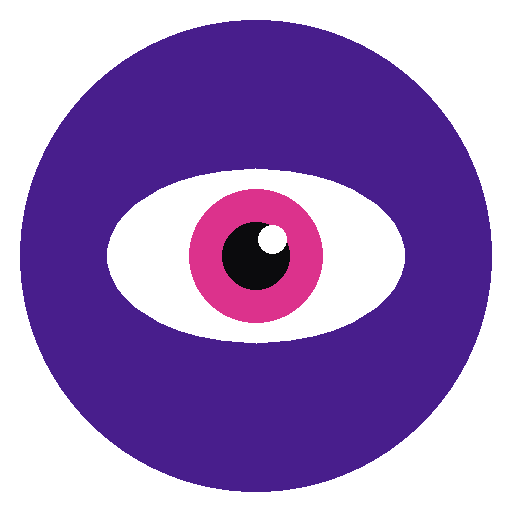
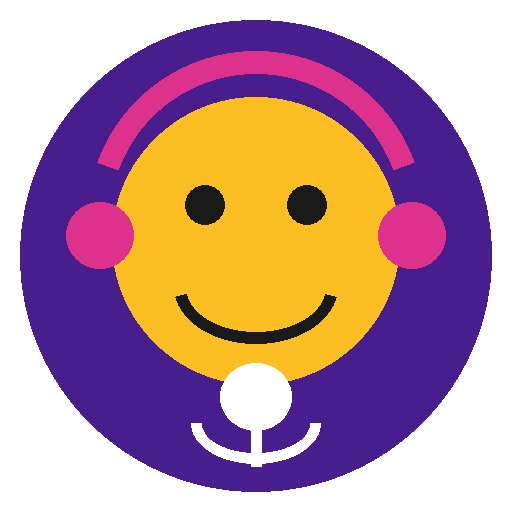
Add files via upload

diff --git a/public/vision/index.html b/public/vision/index.html
@@ -666,21 +666,14 @@ Look at what is visible on camera and open with: "I can see [ingredients] — wh
   function connectWebSocket() {
     setStatus('connecting');
     const wsProtocol = location.protocol === 'https:' ? 'wss:' : 'ws:';
-    const url = wsProtocol + '//' + location.host + '/vision-ws';
+    // Pass system prompt and lang to server via query params — server sends setup to Gemini
+    const system = encodeURIComponent(buildSystemPrompt());
+    const url = wsProtocol + '//' + location.host + '/vision-ws?lang=' + encodeURIComponent(state.lang) + '&system=' + system;
     const ws = new WebSocket(url);
     state.ws = ws;
 
     ws.onopen = () => {
-      const setupMsg = {
-        setup: {
-          model: 'models/gemini-3.1-flash-live-preview',
-          generationConfig: { responseModalities: ['AUDIO'] },
-          inputAudioTranscription: {},
-          outputAudioTranscription: {},
-          systemInstruction: { parts: [{ text: buildSystemPrompt() }] }
-        }
-      };
-      ws.send(JSON.stringify(setupMsg));
+      console.log('[client] Connected to proxy — server will send setup to Gemini');
     };
 
     ws.onmessage = async (event) => {